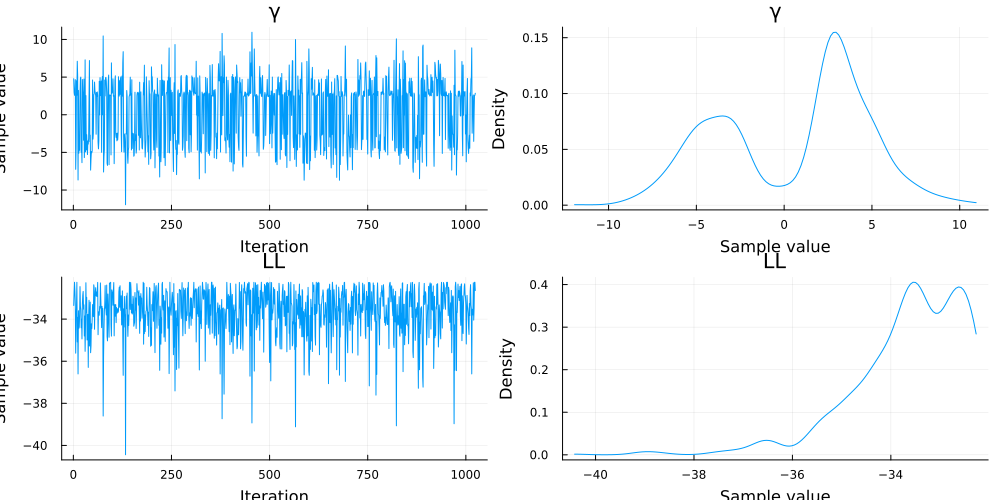
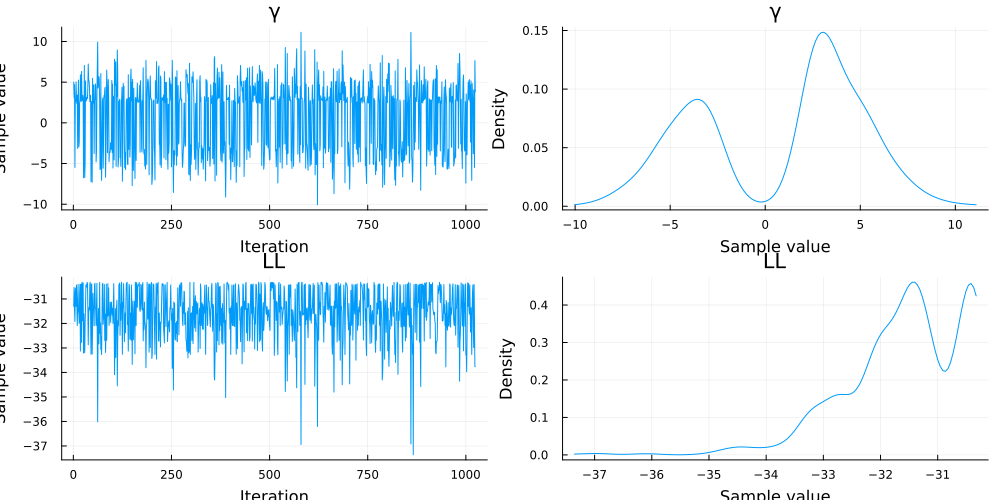
update docs

diff --git a/docs/src/parameter_estimation.md b/docs/src/parameter_estimation.md
@@ -18,16 +18,16 @@ using Turing
 
 The next step is to generate some simulated data from which the parameters can be estimated. In the code block below, the utility parameter $\mu_d$ is set to one and the entanglement parameter is set to $\gamma = 2$.  A total of 50 trials is generated for each of the three conditions. The resulting values represent the number of defections per condition out of 50.
 ```julia
-Random.seed!(8744)
- parms = (
-    α = .9, 
-    λ = 2,
-    w_win = .5,
-    γ = 2.5
+Random.seed!(2015)
+parms = (
+  α = .9, 
+  λ = 2,
+  w_win = .5,
+  γ = 2.5
 )
 
-outcomes1 = [[2,-1],[5,-3],[.5,-.25],[2,-2],[5,-5],[.5,-.50]]
-outcomes2 = [[2,-1],[5,-3],[.5,-.25],[2,-2],[5,-5],[.5,-.50]]
+outcomes1 = [[2,-1],[6,-3],[3,-1],[7,-2],[-.50,-.75]]
+outcomes2 = [[2,-1],[6,-3],[3,-1],[7,-2],[-.50,-.75]]
 
 n = 10
 model = QDIM(; parms...)
@@ -39,12 +39,12 @@ data = rand(model, outcomes1, outcomes2, n)
 The next step is to define a Turing model with the `@model` macro. For simplicity, we will fix the utility parameter $\mu_d=1$ and set the prior of the entanglement parameter to $\gamma \sim \mathrm{normal}(0,3)$. 
 
 ```julia 
-@model function turing_model(data, outcomes1, outcomes2, n, parms)
+@model function turing_model(data, parms)
     γ ~ Normal(0, 3)
     data ~ QDIM(; parms..., γ)
 end
 _data = (outcomes1,outcomes2,data,n)
-sampler = turing_model(_data, outcomes1, outcomes2, n, parms)
+sampler = turing_model(_data, parms)
 ```
 
 ## Estimate Parameters
@@ -52,8 +52,9 @@ sampler = turing_model(_data, outcomes1, outcomes2, n, parms)
 To estimate the parameters, we need to pass the Turing model to `pigeons`. The second command converts the output to an `MCMCChain` object, which can be used for plotting
 ```julia
 pt = pigeons(
-    target=TuringLogPotential(sampler), 
-    record=[traces])
+    target = TuringLogPotential(sampler), 
+    record = [traces],
+    multithreaded = true)
 samples = Chains(sample_array(pt), ["γ","LL"])
 ```
 The trace of the `pigeon`'s sampler is given below:
@@ -61,16 +62,16 @@ The trace of the `pigeon`'s sampler is given below:
 ────────────────────────────────────────────────────────────────────────────
   scans        Λ      log(Z₁/Z₀)   min(α)     mean(α)    min(αₑ)   mean(αₑ) 
 ────────── ────────── ────────── ────────── ────────── ────────── ──────────
-        2       1.57      -32.7      0.443      0.826          1          1 
-        4      0.622      -31.7      0.692      0.931          1          1 
-        8       1.07      -31.4      0.574      0.881      0.923      0.991 
-       16        0.9      -31.7      0.757        0.9       0.96      0.996 
-       32      0.837      -31.7      0.719      0.907       0.99      0.998 
-       64       1.06      -31.7       0.72      0.882       0.99      0.998 
-      128       1.02      -31.9      0.811      0.887       0.99      0.997 
-      256      0.986      -31.9       0.86       0.89       0.99      0.997 
-      512      0.968      -31.9      0.873      0.892      0.992      0.998 
- 1.02e+03      0.998      -31.9      0.874      0.889      0.994      0.998 
+        2       1.72        -30      0.585      0.809          1          1 
+        4       1.75      -29.9      0.382      0.805      0.923      0.991 
+        8      0.996      -29.5      0.688      0.889       0.96      0.996 
+       16       1.02      -29.6      0.736      0.887       0.98      0.998 
+       32      0.805      -29.1      0.795      0.911       0.99      0.999 
+       64      0.907      -29.6      0.794      0.899       0.99      0.998 
+      128      0.984      -29.4      0.783      0.891      0.997          1 
+      256      0.874      -29.4      0.863      0.903      0.992      0.998 
+      512      0.849      -29.4      0.891      0.906      0.993      0.998 
+ 1.02e+03      0.938      -29.4      0.872      0.896      0.996      0.999 
 ────────────────────────────────────────────────────────────────────────────
 ```
 
